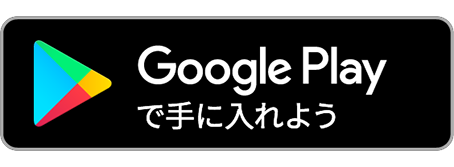
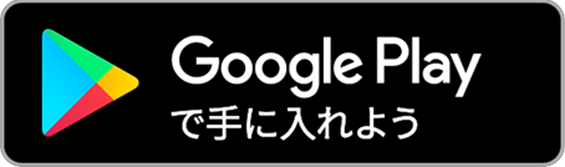
修正

diff --git a/docs/css/index.css b/docs/css/index.css
@@ -143,8 +143,12 @@ a:visited{
     bottom: 40px;
     right: 20px;
 }
-.secApp1 img{
+.secApp1 .app1 img{
     width: 150px;
+    height: auto;
+}
+.secApp1 .app2 img{
+    width: 185px;
     height: auto;
 }
 @media screen and (max-width:480px){
@@ -166,7 +170,12 @@ a:visited{
     .secApp1{
         position: unset;
     }
-    .secApp1 img{
+    .secApp1 .app1 img{
+        width: 50%;
+        height: auto;
+        padding-bottom: 10px;
+    }
+    .secApp1 .app2 img{
         width: 50%;
         height: auto;
     }
